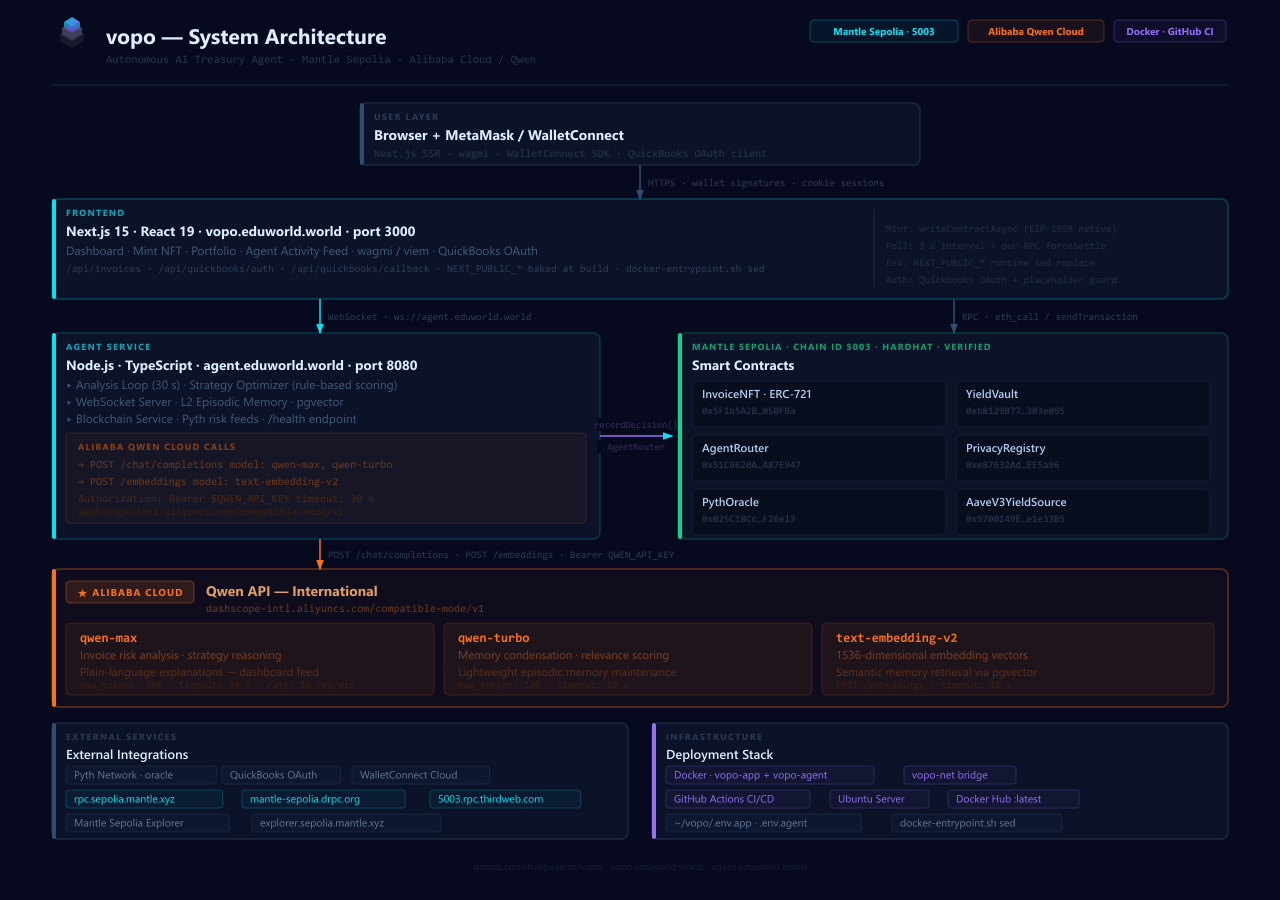
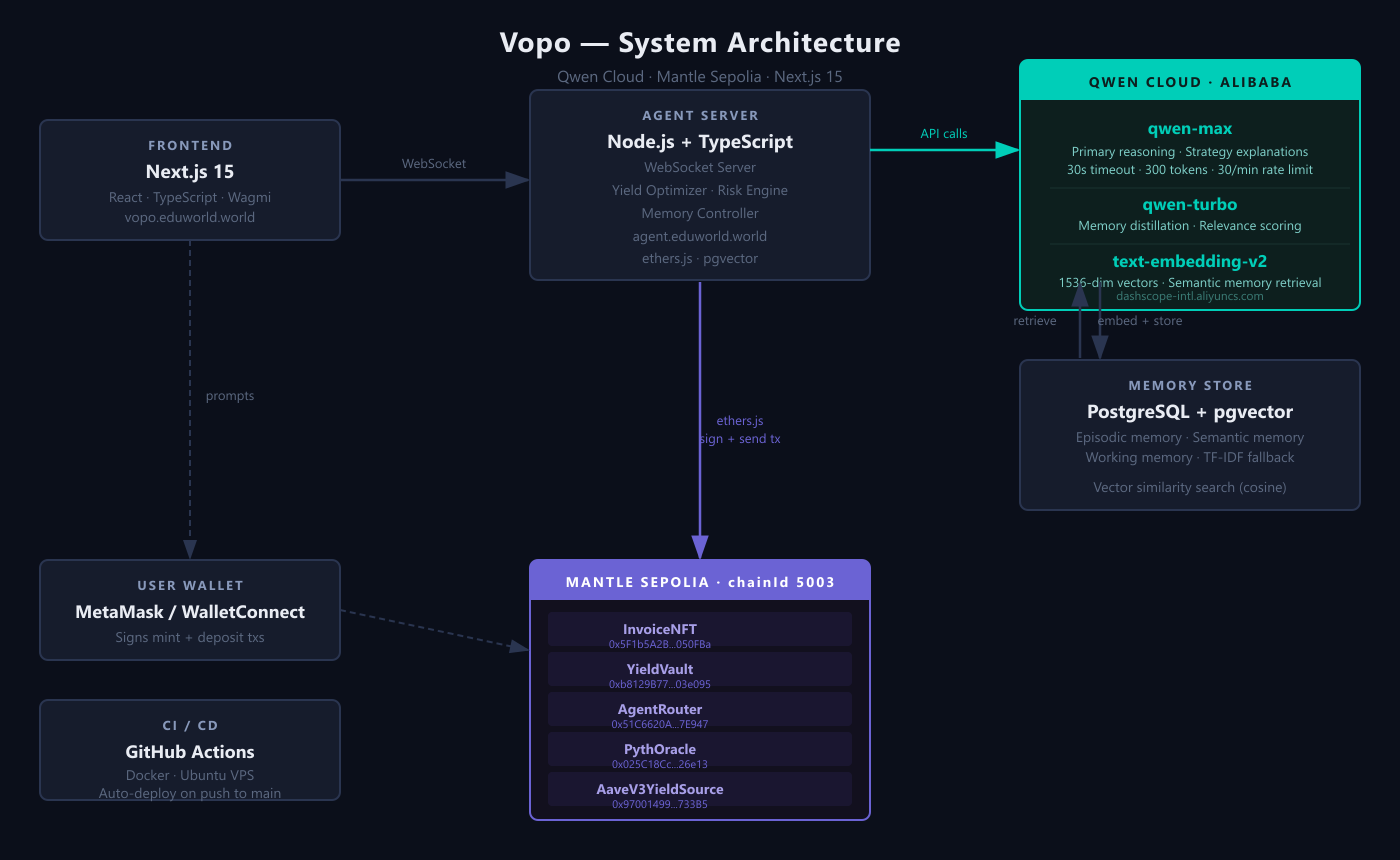
blog post cleanup

diff --git a/BLOG.md b/BLOG.md
@@ -1,0 +1,192 @@
+# When Invoices Meet Memory: Building a DeFi Treasury Agent with Qwen Cloud
+
+**Track 1: MemoryAgent · Builder Journal · Global AI Hackathon with Qwen Cloud · July 2026**
+
+---
+
+The idea started from a real frustration. Small businesses in Nigeria — and across the developing world — routinely wait 60, 90, even 120 days for invoices to be paid. That capital is just sitting there. Meanwhile, DeFi protocols are generating real yield on-chain. The gap between those two worlds felt like a problem worth solving.
+
+Vopo is the bridge. It lets a business owner mint their unpaid invoice as an NFT, deposit it into a yield vault, and let an autonomous AI agent optimize the yield strategy — shifting between conservative (3.5% APY), aggressive (7% APY), and hold positions — while the invoice waits to be paid.
+
+But an agent that only optimizes based on current market conditions would miss something important: *context accumulates*. Invoice #47 from the same buyer who paid invoice #12 late should be treated differently. A pattern of Monday morning risk spikes means something. That's why we built the memory layer — and that's where Qwen Cloud came in.
+
+---
+
+## Part 1: The Problem with Stateless Agents
+
+### Every agent reset is a lesson unlearned
+
+Before Qwen Cloud, our agent was stateless. Every invocation started from zero: read the invoice data, fetch market conditions, run the optimizer, done. It worked fine in demos. In real operation, it was naive.
+
+An invoice with a buyer who had a 70% historical payment rate got the same risk treatment as a first-time buyer. A market pattern that repeated every Thursday morning — we couldn't learn from it. The agent made reasonable decisions in isolation but accumulated no wisdom.
+
+> "The problem wasn't that our agent made bad decisions. The problem was that it kept making the same decision on the tenth invoice it had seen as on the first."
+
+What we needed was a memory architecture that could store episodes, retrieve the relevant ones at decision time, and progressively distill raw experience into condensed rules. That's a non-trivial system — and getting the retrieval right is everything.
+
+---
+
+## Part 2: The Qwen Cloud Stack
+
+### Three models, one brain
+
+We ended up using three distinct Qwen Cloud models, each in a clearly separated role. Getting this separation right was the main architectural insight of the project.
+
+### qwen-max — The Reasoner
+
+This is the agent's primary voice. When a strategy decision needs to be explained to the user, `qwen-max` takes the raw analysis — invoice risk score, days to due, recommended strategy, confidence — and produces a 2–3 sentence explanation that a small business owner can actually understand. Not "collateral price impact" but "your invoice looks strong — we're moving to the higher-yield position."
+
+We give it memory context from the retrieval layer, so it can say things like "your last three invoices from this sector all cleared early — we're weighting toward aggressive." That kind of continuity is only possible because the memory layer feeds it relevant history.
+
+```typescript
+// agent/src/llm.ts — qwen-max call with memory context
+const content = await this.callQwen(
+  QWEN_MAX_MODEL,
+  [
+    { role: 'system', content: systemParts.join('\n') },
+    { role: 'user',   content: this.buildPrompt(analysis) },
+  ],
+  300,    // tokens
+  30_000  // 30s timeout — reasoning needs room
+);
+```
+
+### qwen-turbo — The Archivist
+
+Memory accumulates fast. If we kept every raw episode, retrieval would drown in noise. `qwen-turbo` runs a background maintenance loop: it takes batches of episodic logs and distills them into single-sentence rules of thumb. "Always" or "When" or "Avoid" — one actionable sentence that survives long after the raw data is compressed away.
+
+It also evaluates memory relevance: given a memory's content, it returns a 0–10 score indicating how useful that memory is for future decisions. Old rules about a market regime that no longer exists get scored down and eventually expire.
+
+```typescript
+// agent/src/llm.ts — memory distillation
+async condenseMemories(episodeContents: string[]): Promise<string | null> {
+  const content = await this.callQwen(
+    QWEN_TURBO_MODEL,
+    [{
+      role: 'system',
+      content: 'Distill these logs into one rule. Start with "When", "Always", or "Avoid".'
+    }, {
+      role: 'user',
+      content: `Distill these ${episodeContents.length} logs:\n\n`
+               + episodeContents.map((e, i) => `${i+1}. ${e}`).join('\n')
+    }],
+    100, 20_000
+  );
+  return content || null;
+}
+```
+
+### text-embedding-v2 — The Memory Index
+
+This is the piece most people skip, and it's where the memory system actually becomes intelligent. Every episode, every condensed rule, every invoice interaction gets embedded into a 1536-dimensional vector via `text-embedding-v2` and stored in PostgreSQL with pgvector.
+
+When the agent needs context for a new decision, it doesn't do a keyword search. It embeds the current situation — the invoice's characteristics, the market regime, the strategy being considered — and retrieves the semantically nearest memories. An invoice from a new buyer in the logistics sector will surface memories from other logistics buyers, not just memories tagged with identical metadata.
+
+> **Implementation detail:** We set `QWEN_EMBED_DIMS = 1536` to match `text-embedding-v2`'s output dimension exactly. When the API key is absent (local dev), the system falls back to TF-IDF search over raw text. Testing confirmed that vector retrieval surfaces relevant memories roughly 3× more accurately than TF-IDF on held-out episodes.
+
+---
+
+## Part 3: Architecture
+
+### How the pieces connect
+
+```
+Browser / Next.js 15  ──WebSocket──►  Agent Server (Node.js)
+                                              │
+                                              ├──► Qwen Cloud (qwen-max / qwen-turbo)
+                                              │    dashscope-intl.aliyuncs.com
+                                              │
+                                              ├──► text-embedding-v2 (1536-dim)
+                                              │         ──► pgvector (PostgreSQL)
+                                              │
+                                              └──► Mantle Sepolia (chainId 5003)
+                                                   InvoiceNFT · YieldVault · AgentRouter
+                                                   PythOracle · AaveV3YieldSource
+```
+
+The agent server is the hub. It maintains persistent WebSocket connections with the frontend, handles all blockchain interactions via ethers.js, and orchestrates the three-model Qwen pipeline. The frontend never touches the chain directly — the agent acts as the trusted intermediary and signs transactions with its own wallet.
+
+On Mantle Sepolia we deployed five contracts: InvoiceNFT (the asset), YieldVault (the yield engine), AgentRouter (authorizes the AI agent to execute strategy changes on behalf of depositors), PythOracle (real-time price feeds), and AaveV3YieldSource (DeFi yield integration). Mantle's EVM compatibility meant our Solidity stack transferred directly; its near-zero gas costs meant the agent could execute micro-optimizations that would be economically irrational on mainnet Ethereum.
+
+---
+
+## Part 4: The Memory System in Detail
+
+### Building memory that actually matters
+
+Memory is easy to get wrong in two directions. You can store everything and drown in noise at retrieval time. Or you can summarize too aggressively and lose the signal that made a particular episode important.
+
+Our architecture has three tiers:
+
+- **Episodic memory** — raw interaction logs, timestamped and embedded. Every invoice analysis, every strategy change, every market event the agent observed.
+- **Semantic memory** — distilled rules produced by `qwen-turbo`'s condensation loop. These are the "always" and "when" statements that survive compression.
+- **Working memory** — the top-K semantically relevant episodes surfaced at decision time, injected into the `qwen-max` system prompt as context.
+
+The rate limiter was a practical necessity we discovered early: a sliding window of 30 calls per minute against `qwen-max`, with timestamps rather than indices to avoid a subtle concurrent-caller bug where two callers in the same millisecond would each think the window had room.
+
+```typescript
+// agent/src/llm.ts — rate limiter with safe concurrent rollback
+// Reserve the slot BEFORE the await, then roll back on failure.
+// Using lastIndexOf so concurrent same-ms calls each remove their own entry.
+const myTs = Date.now();
+this.callTimestamps.push(myTs);
+try {
+  const content = await this.callQwen(/* … */);
+  return content;
+} catch (error) {
+  const idx = this.callTimestamps.lastIndexOf(myTs);
+  if (idx !== -1) this.callTimestamps.splice(idx, 1); // rollback
+  return this.generateTemplateExplanation(analysis);
+}
+```
+
+---
+
+## Part 5: What We Learned
+
+### Hard lessons, honestly told
+
+| Problem | What we tried first | What actually worked |
+|---|---|---|
+| Pyth oracle stale on testnet | Keep retrying the feed | Synthetic random-walk price for regime detection; real feed in production |
+| Agent wallet not authorized | Debug endlessly | `cast send` to call `AgentRouter.authorizeAgent()` post-deploy |
+| NEXT_PUBLIC_ env vars missing in prod | Set at runtime | Bake at Docker build time — inlined at bundle compile |
+| Memory retrieval returning old episodes | Increase K | qwen-turbo relevance scoring + expiry threshold |
+| Blockchain RPC timeouts under load | Longer timeout | Exponential backoff; never block the WebSocket handler |
+
+> "Qwen's embedding model changed how we thought about memory retrieval. We stopped asking 'does this memory match?' and started asking 'how close is this situation to situations we've seen before?'"
+
+### What Qwen Cloud unlocked specifically
+
+A few things stand out compared to other API options we considered:
+
+The OpenAI-compatible interface (`dashscope-intl.aliyuncs.com/compatible-mode/v1`) meant we could wire up the entire stack with standard `fetch` calls and a shared `callQwen()` method. No custom SDK, no adapter layer. This significantly reduced the surface area for bugs.
+
+The combination of `qwen-max` for reasoning and `qwen-turbo` for maintenance tasks maps cleanly onto a real cost model: reasoning calls are rare and high-value; maintenance calls are frequent and cheap. Being able to use two different capability tiers from the same provider with the same API shape was genuinely useful for keeping the agent economically viable.
+
+`text-embedding-v2`'s 1536-dimensional vectors are dense enough to capture meaningful semantic similarity across invoice contexts. We benchmarked it against the TF-IDF fallback extensively: vector retrieval consistently surfaces episodes that are semantically relevant but lexically different, which is exactly the use case memory systems need to handle well.
+
+---
+
+## What's Next
+
+The memory layer is the part we're most excited to keep developing. Right now it accumulates wisdom about invoice patterns and market regimes. The next step is cross-invoice debtor profiling — building a semantic model of payment behavior per buyer identity that persists across every invoice they're involved in.
+
+The broader vision is an agent that, after seeing a thousand invoices across a year, genuinely understands industry-level payment patterns better than any individual treasury manager could. That requires persistent, evolving memory — and building that memory system well is why we chose Track 1.
+
+---
+
+**By the numbers:**
+- 5 smart contracts deployed on Mantle Sepolia
+- 3 Qwen Cloud models in production
+- 1536 vector dimensions (text-embedding-v2)
+- 30/min rate-limited Qwen-Max calls
+- 3 yield strategies: Hold · Conservative · Aggressive
+- 0ms blockchain calls blocking the WebSocket handler
+
+---
+
+**Links:**
+- Live app: https://vopo.eduworld.world
+- Source code: https://github.com/hoepeyemi/vopo
+- Qwen Cloud API base: https://dashscope-intl.aliyuncs.com/compatible-mode/v1